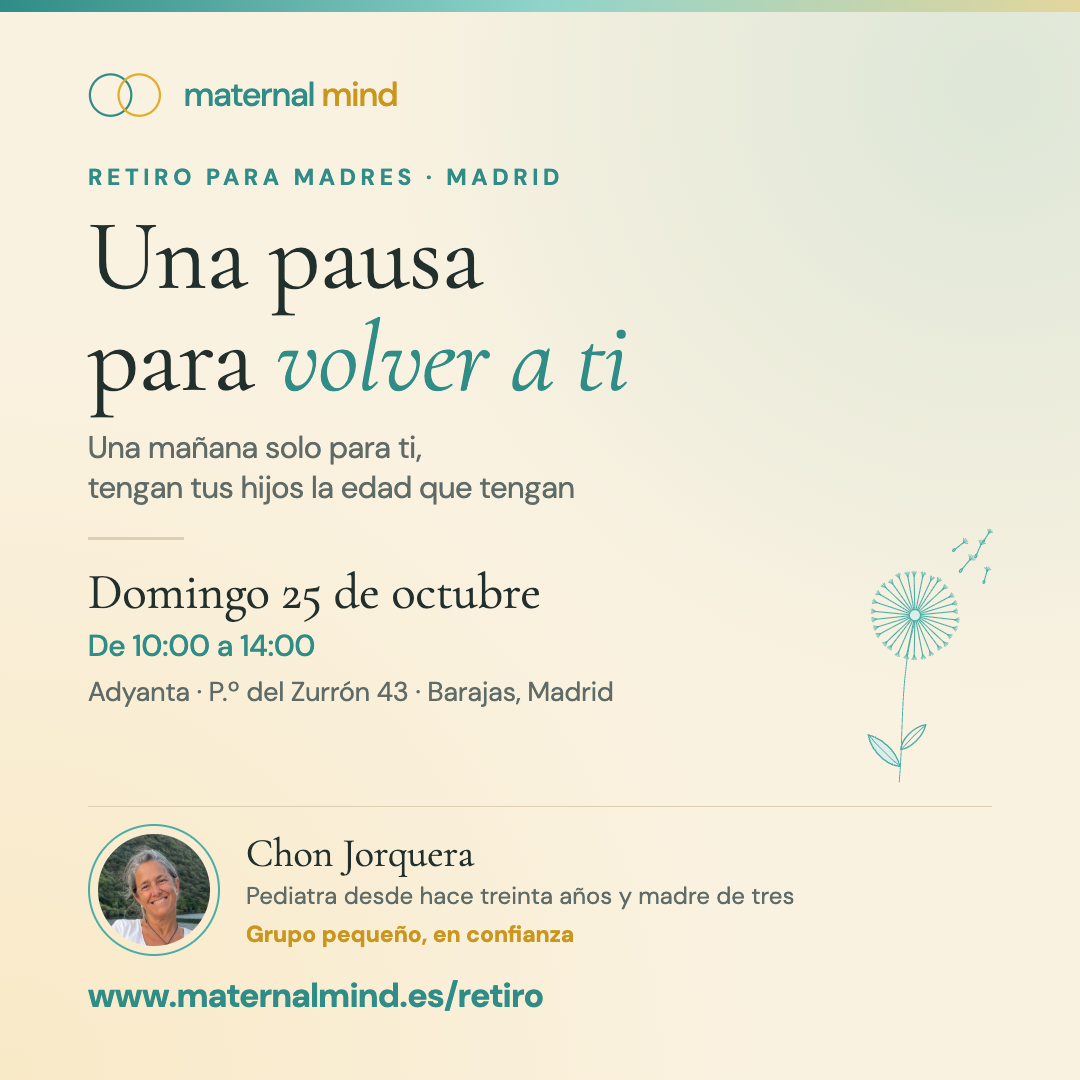
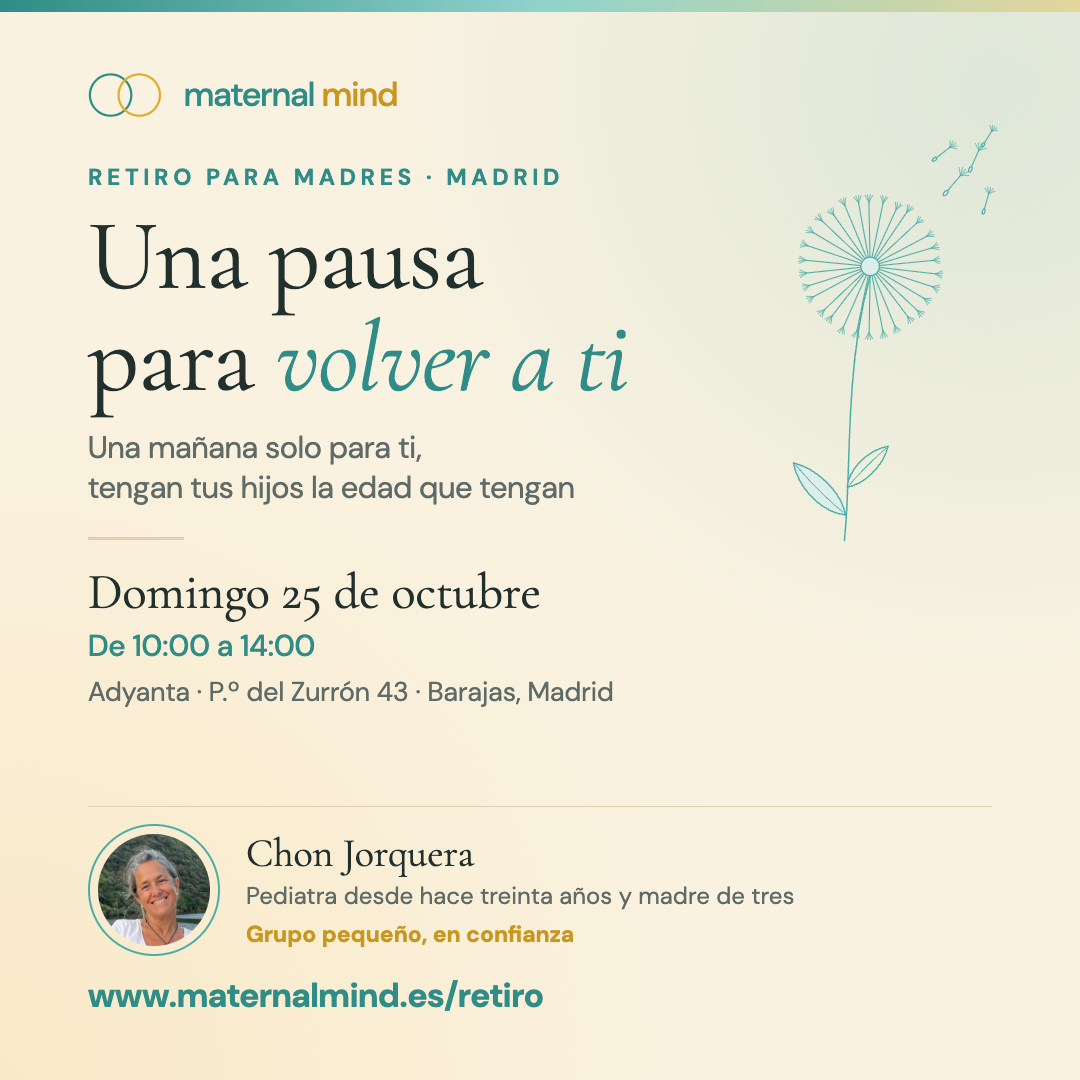
WhatsApp del retiro: el diente de león arriba, junto al título, como en los carteles

diff --git a/retiros/img/retiro-whatsapp.html b/retiros/img/retiro-whatsapp.html
@@ -93,7 +93,7 @@
   .grupo{font-size:23px;margin-top:2px}
   .cierre{margin-top:24px}
   .enlace{font-size:34px}
-  .grabado{right:80px;top:520px;width:140px}
+  .grabado{right:70px;top:110px;width:230px}
 </style>
 <body class="">
 <svg class="grabado" viewBox="530 30 250 480" aria-hidden="true">
